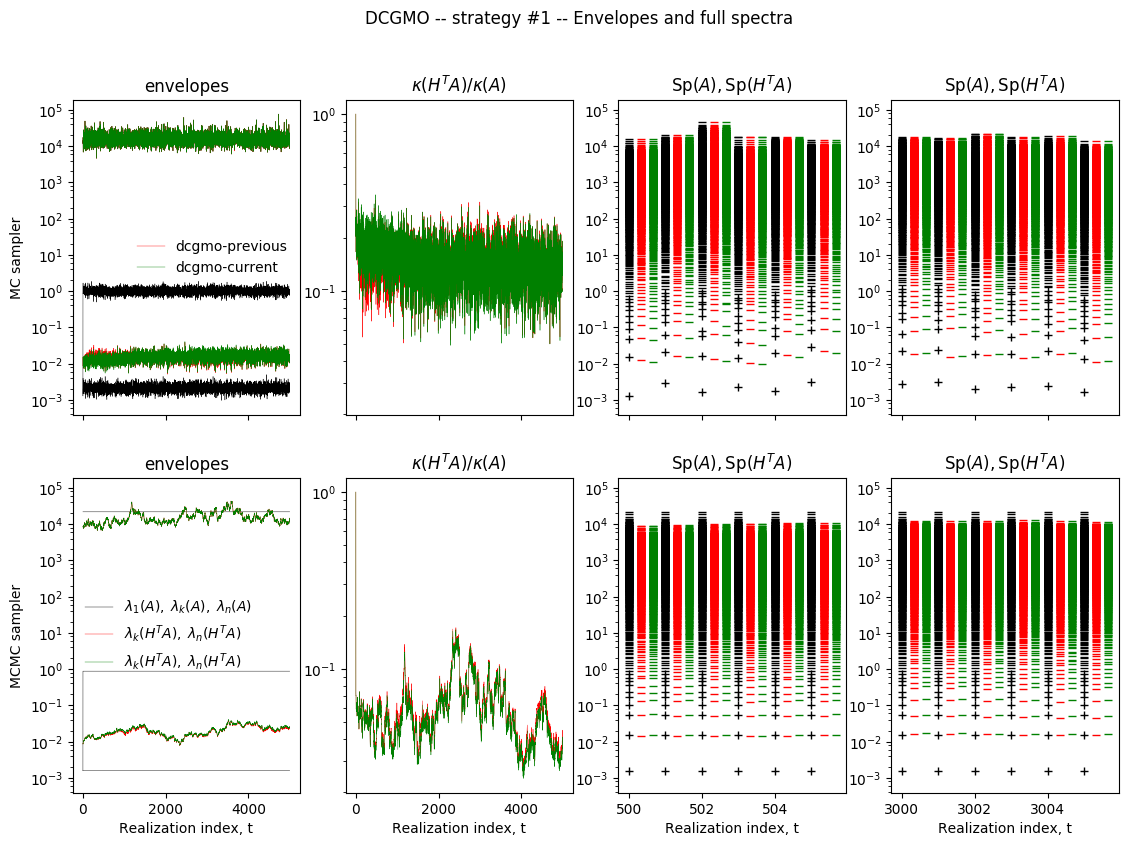
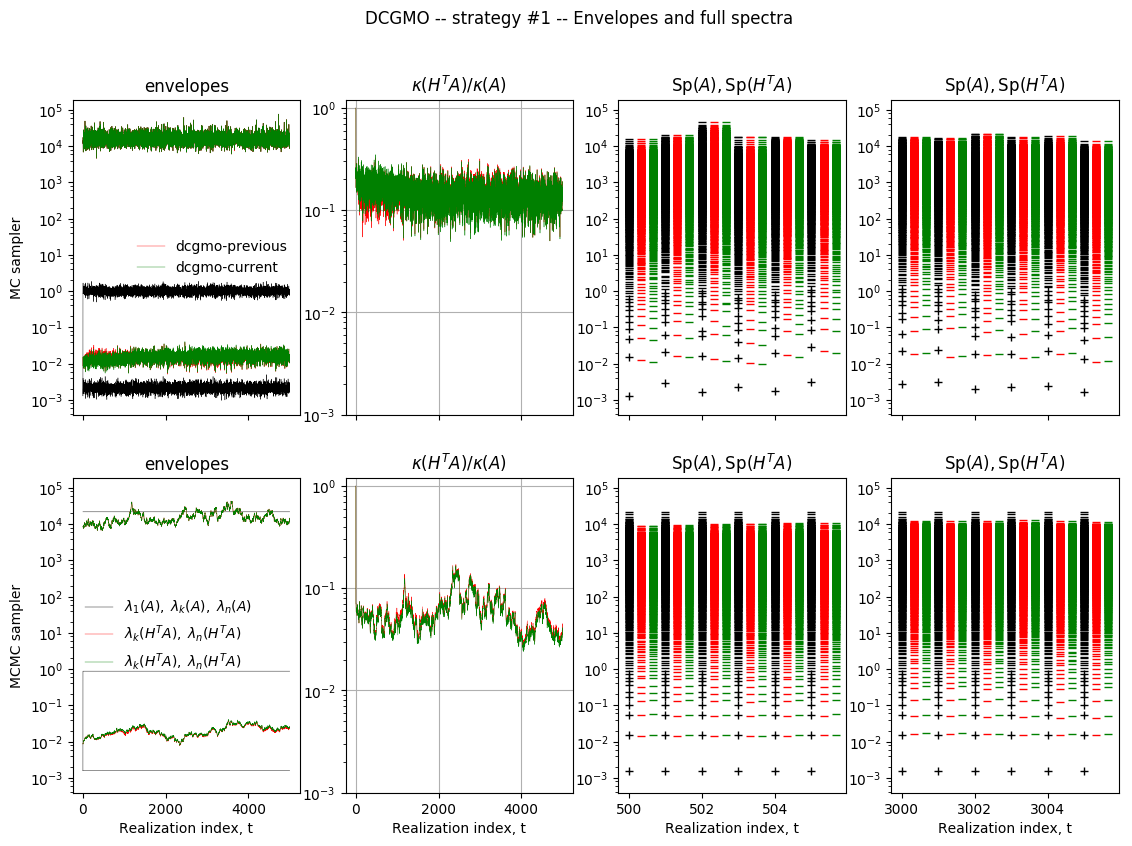
first-commit

diff --git a/examples/example05_recycler_plot.py b/examples/example05_recycler_plot.py
@@ -126,9 +126,11 @@ def plot(smp=None, smp_SpA=None, dcgmo_SpHtA=None, dcgmo_kdim=None, case=None):
     ax[1,3].semilogy((n-kdim)*[i+.33], dcgmo_SpHtA[("mcmc", "previous", 0)][i][kdim:], "r_", markersize=6)
     ax[1,3].semilogy((n-kdim)*[i+.66], dcgmo_SpHtA[("mcmc", "current", 0)][i][kdim:], "g_", markersize=6)
   ax[1,0].set_ylim(ax[0,0].get_ylim()); ax[1,2].set_ylim(ax[0,0].get_ylim()); ax[1,3].set_ylim(ax[0,0].get_ylim())
+  ax[0,1].set_ylim(1e-3,1)
   ylim0 = ax[0,1].get_ylim(); ylim1 = ax[1,1].get_ylim()
   ylim = (min(ylim0[0], ylim1[0]), max(ylim0[1], ylim1[1]))
   ax[0,1].set_ylim(ylim); ax[1,1].set_ylim(ylim)
+  ax[0,1].grid(); ax[1,1].grid()
   for j in range(4):
     ax[1,j].set_xlabel("Realization index, t")
   pl.savefig(figures_path+"example05_recycler_"+case+".png", bbox_inches='tight')

diff --git a/README.tex.md b/README.tex.md
@@ -618,7 +618,7 @@ while (smp["mcmc"].cnt_accepted_proposals <= nsmp):
     print("%d/%d" %(smp["mcmc"].cnt_accepted_proposals+1, nsmp))
  
 save_data(smp, smp_SpA, dcgmo_SpHtA, dcgmo_kdim, case)
-plot(case=case)
+plot(case=case) 
 ```
 
 Output :
